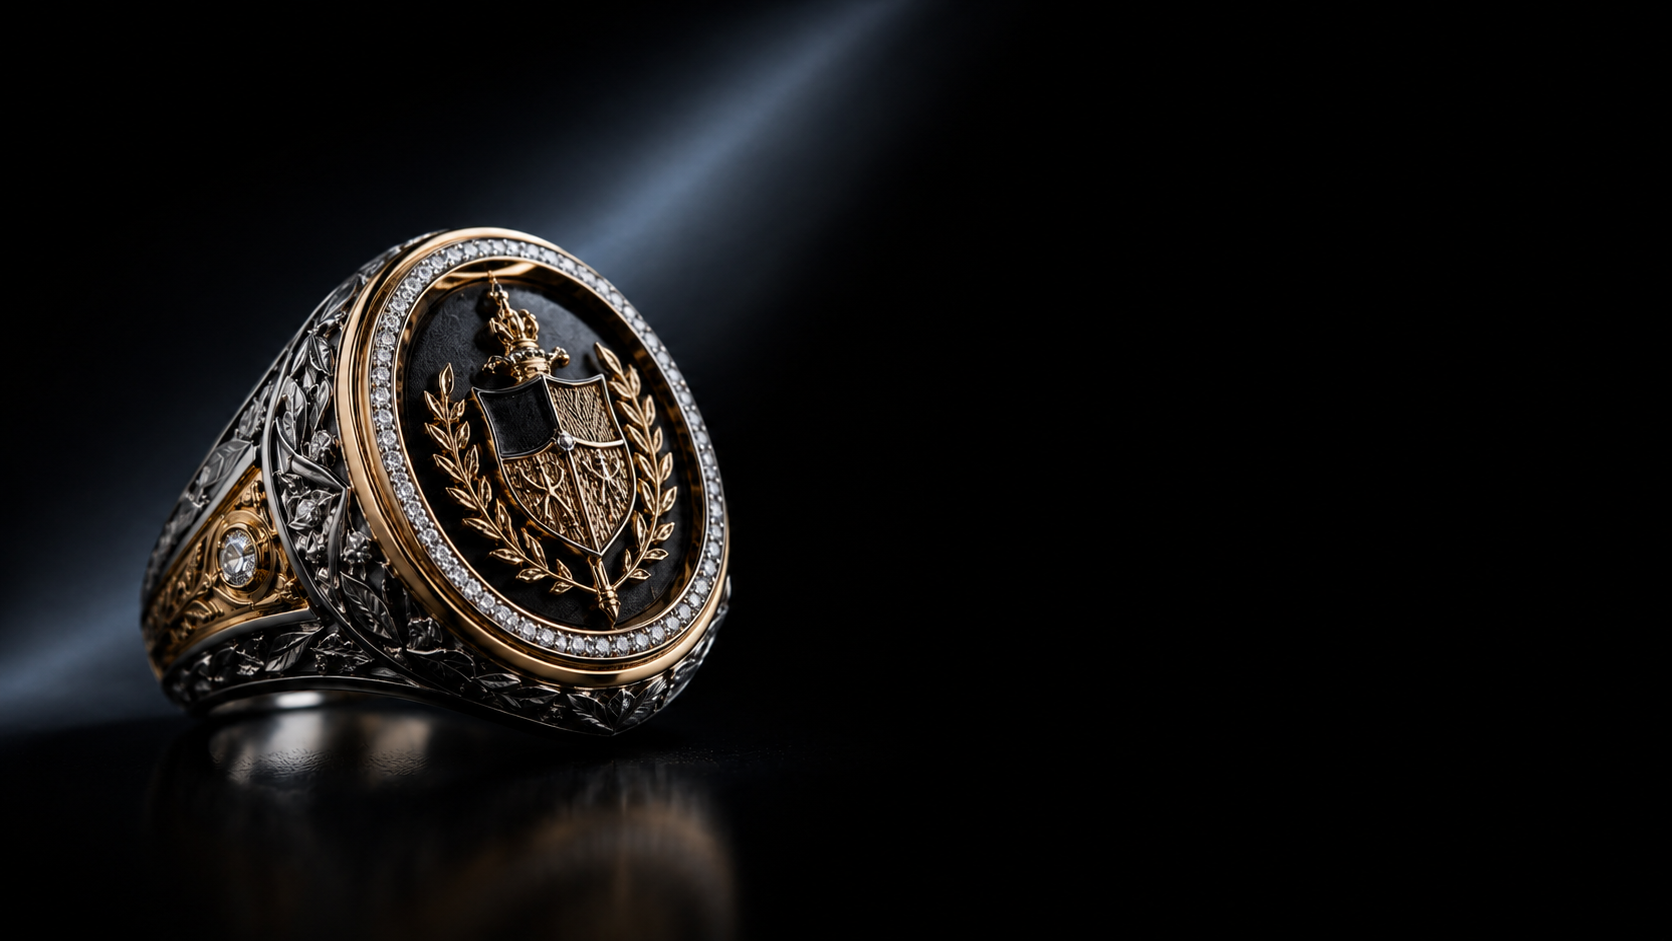
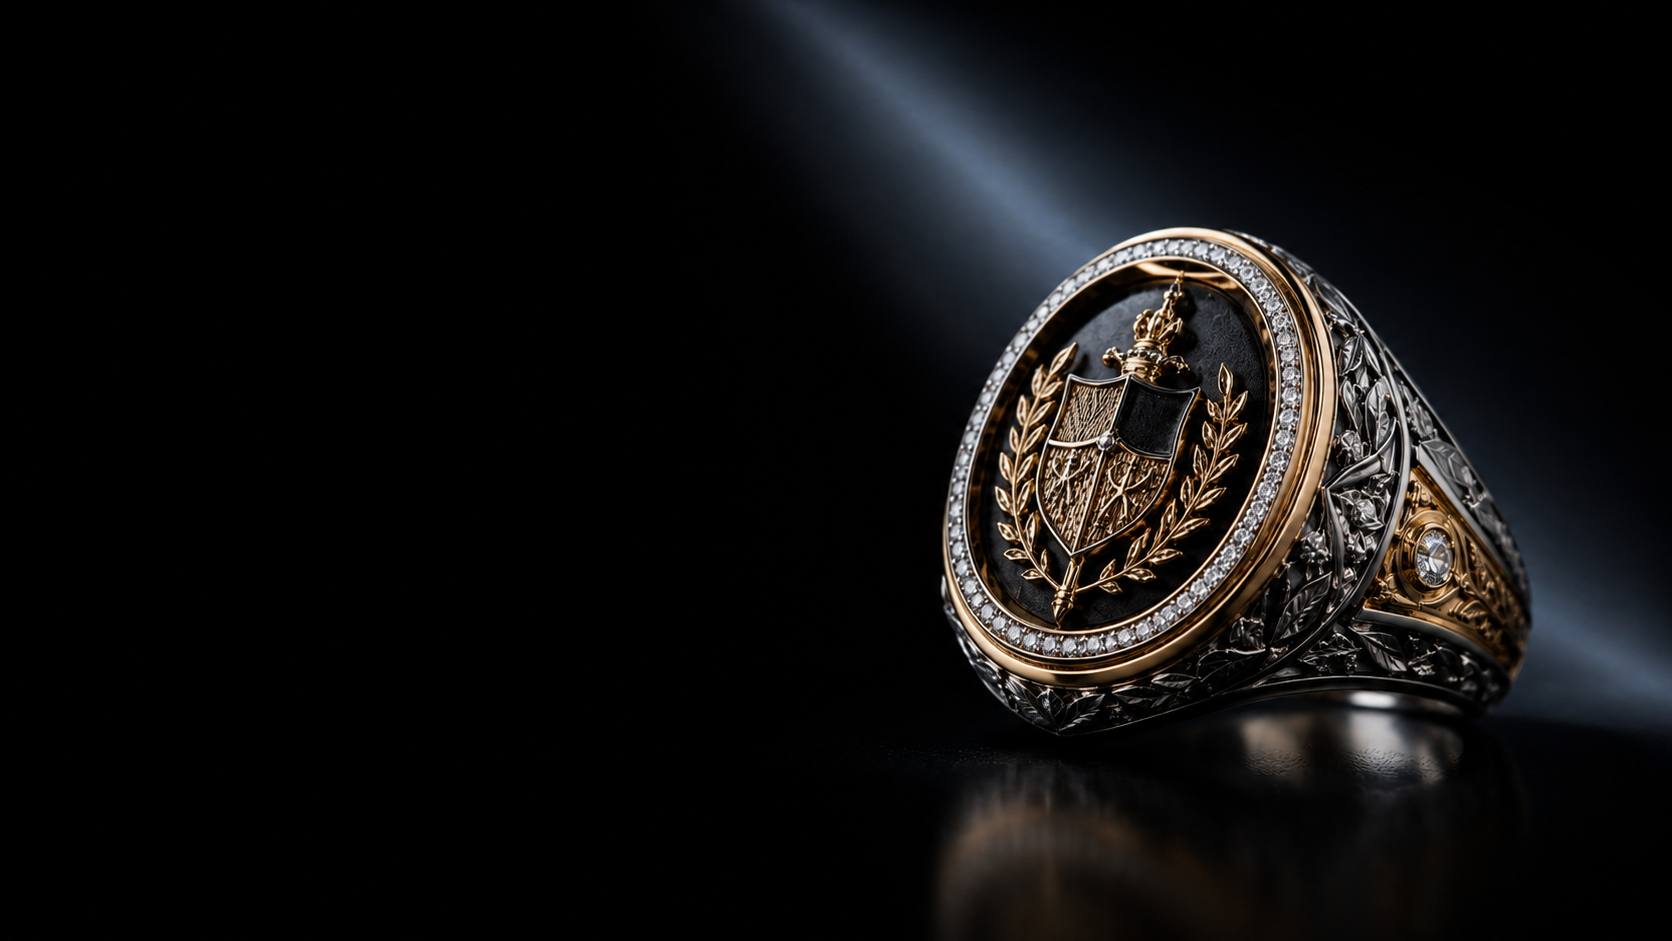
Align collection stages to category photos

diff --git a/components/specialty/specialty-collection-gallery.tsx b/components/specialty/specialty-collection-gallery.tsx
@@ -142,7 +142,6 @@ export function SpecialtyCollectionGallery({
               href={`/${locale}/specialty/collection/${category.id}`}
               item={category.item}
               reducedMotion={prefersReducedMotion}
-              mirrorImage={index < 2}
               textSide={imageSide === 'left' ? 'right' : 'left'}
             />
           );
@@ -837,7 +836,6 @@ function CollectionStagePanel({
   href,
   item,
   reducedMotion,
-  mirrorImage,
   textSide
 }: {
   index: number;
@@ -848,7 +846,6 @@ function CollectionStagePanel({
   href: string;
   item?: CollectionImageSource;
   reducedMotion: boolean;
-  mirrorImage: boolean;
   textSide: 'left' | 'right';
 }) {
   const ref = useRef<HTMLElement | null>(null);
@@ -882,7 +879,6 @@ function CollectionStagePanel({
         <StageImage
           item={item}
           priority={index === 0}
-          mirrorImage={mirrorImage}
           y={imageY}
           scale={imageScale}
         />
@@ -932,13 +928,11 @@ function CollectionStagePanel({
 function StageImage({
   item,
   priority,
-  mirrorImage,
   y,
   scale
 }: {
   item?: CollectionImageSource;
   priority: boolean;
-  mirrorImage: boolean;
   y: MotionValue<number>;
   scale: MotionValue<number>;
 }) {
@@ -956,16 +950,14 @@ function StageImage({
 
   return (
     <motion.div className="absolute inset-0 will-change-transform" style={{y, scale}}>
-      <div className={`absolute inset-0 ${mirrorImage ? '-scale-x-100' : ''}`}>
-        <Image
-          src={`/images/${item.image}`}
-          alt={`${item.title} ${item.caption}`}
-          fill
-          sizes="100vw"
-          priority={priority}
-          className="object-cover object-center"
-        />
-      </div>
+      <Image
+        src={`/images/${item.image}`}
+        alt={`${item.title} ${item.caption}`}
+        fill
+        sizes="100vw"
+        priority={priority}
+        className="object-cover object-center"
+      />
     </motion.div>
   );
 }
